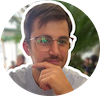
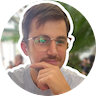
added RotatingIcons.js and TypingEffect.js components, updated Home.js to include them, updated App.css to include new styles for these components, updated package.json and package-lock.json to include new dependencies, updated headshot.png to headshot_circle.png and headshot_lowres.png, deleted tri

diff --git a/src/pages/Home.js b/src/pages/Home.js
@@ -4,8 +4,7 @@ import TypingEffect from "../components/TypingEffect";
 import emailjs from "@emailjs/browser";
 
 //headshot images
-import spinTriangle from "../assets/images/triangle_skinny.png";
-import headshot from "../assets/images/headshot.png";
+import headshot from "../assets/images/headshot_circle.png";
 
 //work images
 import commentWriter from "../assets/images/recent_work/commentwriter_color.png";
@@ -25,9 +24,19 @@ import { ReactComponent as MailSvg } from "../assets/icons/mail.svg";
 import { ReactComponent as PdfSvg } from "../assets/icons/pdf.svg";
 import { ReactComponent as TelegramSvg } from "../assets/icons/telegram.svg";
 
+import RotatingIcons from "../components/RotatingIcons";
+import { SiReact, SiBootstrap, SiJquery, SiHtml5, SiCss3, SiJavascript, SiWix, } from "react-icons/si";
 
 function Home() {
   const [disabled, setDisabled] = useState(false);
+
+  const floatingIcons = [ 
+    <SiReact />,
+    <SiJquery />,
+    <SiHtml5 />,
+    <SiCss3 />,
+    <SiJavascript />
+  ];
 
   const sendEmail = () => {
     // Disable the submit button
@@ -61,16 +70,14 @@ function Home() {
         <div class="container px-4">
           <div class="row d-flex">
             <div class="col-lg-7 align-self-center">
-              <h1 class="white m-2">{TypingEffect("Will Rankin", 80)}</h1>
+              <h1 class="white m-2">{TypingEffect("Will Rankin", 50)}</h1>
             </div>
 
             <div class="bann-img-col col-lg-5 col-md-12 ">
-              <div class="bann-img my-5 mx-lg-5 mx-auto">
-                <div class="triangle">
-                  <img src={spinTriangle} alt="#" className="fadeIn" />
-                </div>
+              <div class="bann-img my-5 mx-lg-5 mx-auto fadeIn">
+                <RotatingIcons duration={60} icons={floatingIcons} />
                 <figure>
-                  <img src={headshot} alt="#" className="fadeIn" />
+                  <img src={headshot} alt="#"/>
                 </figure>
               </div>
             </div>
@@ -78,11 +85,12 @@ function Home() {
             <div class="col-lg-7">
               <div class="p-2">
                 <h2 class="mb-5 white">
-                  {TypingEffect("Full-Stack Developer, Teacher, Explorer", 80)}
+                  {TypingEffect("Full-Stack Developer, Teacher, Explorer", 50, 750)}
                 </h2>
                 <div class="mt-5 mb-3">
                   <p class="text">
-                  Experienced software developer with a global perspective, <br/>ready to re-engage in impactful tech projects. <br />
+                  Experienced developer with a global perspective, 
+                  <br/>ready to re-engage in impactful tech projects. <br />
                   Connect via {" "}
                     <Link className="work_link" to="/home#contact">
                     Quick Contact

diff --git a/src/styles/App.css b/src/styles/App.css
@@ -371,13 +371,58 @@ button {
   width: 100%;
 }
 
-.triangle {
-  width: 45%;
+.circle-container {
   position: absolute;
-  top: -7%;
-  left: 27%;
+  width: 85%;
+  height: 85%;
+  top: 7.5%; 
+  left: 7.5%; 
+  border-radius: 50%;
+  animation: spin 60s linear infinite;
+  margin: auto;
   z-index: 1; /* Adjust the z-index to position the image on top */
-  animation: spin 60s linear infinite; /* Adjust duration of spin animation */
+}
+
+.circle-item {
+  position: absolute;
+  transform-origin: center;
+  width: 100%; 
+  height: 100%;
+}
+
+:root {
+  --starting-degree: 0deg;
+  --duration: 60s;
+}
+
+.circle-icon {
+  position: absolute;
+  background: #430919;
+  border-radius: 100%;
+  box-shadow: 3px 3px 5px #430919;
+  height: 60px;
+  width: 60px;
+  cursor: pointer;
+  transition: all 0.5s ease; /* Smooth transition effect */
+  bottom: 0;
+  left: 0;
+  transform-origin: center;
+  animation: counterspin var(--duration) infinite linear;
+}
+.circle-icon svg{
+  width: 50%;
+  height: 50%;
+  margin: 25%;
+  color: white;
+}
+
+@keyframes counterspin {
+  from {
+    transform: rotate(var(--starting-degree));
+  }
+  to {
+    transform: rotate(calc(var(--starting-degree) - 360deg));
+  }
 }
 
 @keyframes spin {

diff --git a/src/components/RotatingIcons.js b/src/components/RotatingIcons.js
@@ -1,0 +1,26 @@
+import React from 'react';
+
+const RotatingIcons = ({ duration, icons}) => {
+  const degreeWidth = 360 / icons.length;
+  const offset = 11;
+  const getRotation = (index) => (index * degreeWidth) - offset;
+  return (
+    <div className="circle-container">
+      {icons.map((icon, index) => (
+        <div key={index} className="circle-item" style={{ transform: `rotate(${getRotation(index)}deg)` }}>
+          <div
+            className="circle-icon"
+            style={{
+              '--starting-degree': `${-getRotation(index)}deg`,
+              '--duration': `${duration}s`,
+            }}
+          >
+            {icon}
+          </div>
+        </div>
+      ))}
+    </div>
+  );
+};
+
+export default RotatingIcons;

diff --git a/src/components/TypingEffect.js b/src/components/TypingEffect.js
@@ -1,6 +1,6 @@
 import React, { useEffect, useState, useRef } from "react";
 
-function TypingEffect(text, delay = 80, commaPause = 3000){
+function TypingEffect(text, delay = 50, commaPause = 3000){
     const [typedText, setTypedText] = useState("");
     let textIndex = useRef(0);
     
